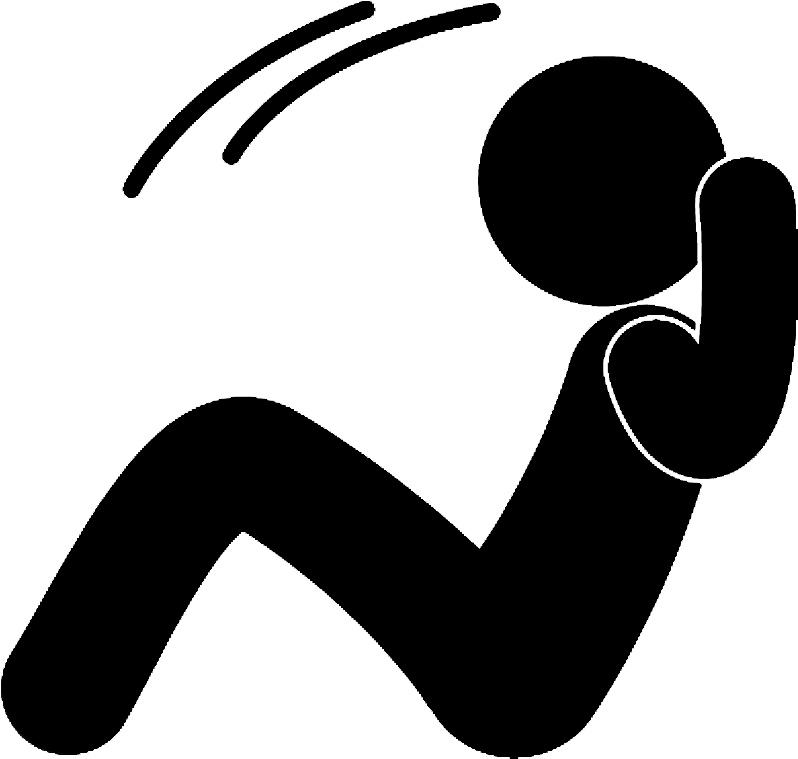
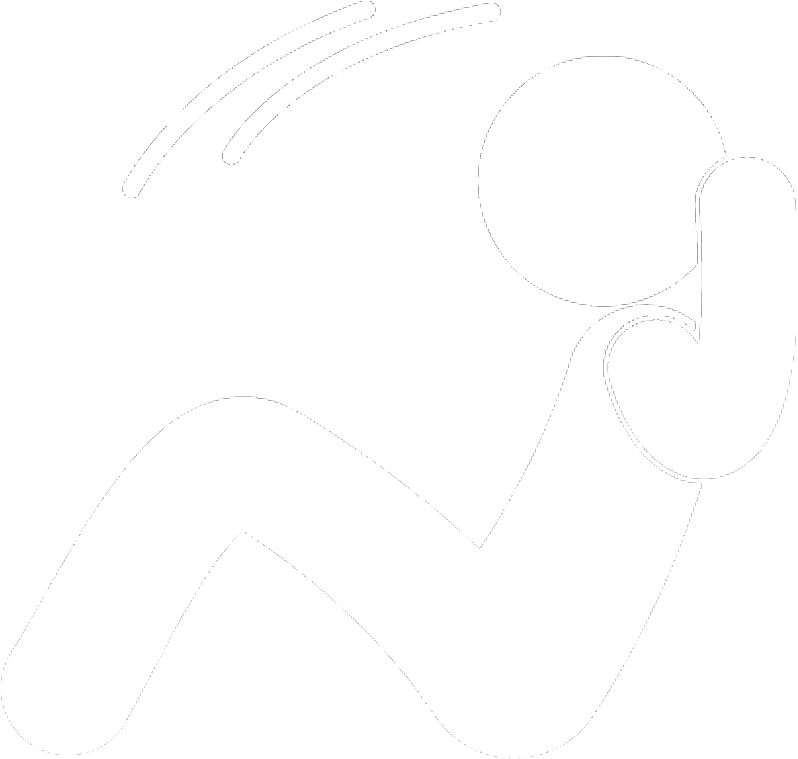
Working on the Screen Switch 2

diff --git a/lib/Screens/Home.dart b/lib/Screens/Home.dart
@@ -1,4 +1,5 @@
 import 'package:flutter/material.dart';
+import 'package:levelup_fitness/Screens/Workout.dart';
 import 'package:levelup_fitness/Styles/Stylebook.dart';
 
 class StatBox extends StatelessWidget {
@@ -37,12 +38,19 @@ class StatBox extends StatelessWidget {
   }
 }
 
-class HomeScreen extends StatelessWidget {
-  const HomeScreen({Key? key}) : super(key: key);
-  final int strength = 10;
-  final int agility = 20;
-  final int endurance = 30;
-  final int streak = 0;
+class HomeScreen extends StatefulWidget {
+  @override
+  MainScreenState createState() => MainScreenState();
+}
+
+class MainScreenState extends State<HomeScreen> {
+  int strength = 10;
+  int agility = 20;
+  int endurance = 30;
+  int streak = 0;
+  int selectedIndex = 0;
+
+
   @override
   Widget build(BuildContext context) {
     return Scaffold(
@@ -91,6 +99,7 @@ class HomeScreen extends StatelessWidget {
         child: Column(
           crossAxisAlignment: CrossAxisAlignment.start,
           children: [
+            
             //Colomn start
             Text("STATS", style: Stylebook.bodyText1),
             Padding(padding: const EdgeInsets.fromLTRB(0, 12, 0, 0)),
@@ -146,17 +155,32 @@ class HomeScreen extends StatelessWidget {
         ),
       ),
       bottomNavigationBar: BottomNavigationBar(
+        currentIndex: selectedIndex,
+        onTap: (index) {
+          setState(() {
+            selectedIndex = index;
+          });
+        },
         elevation: 0,
         showSelectedLabels: false,
         showUnselectedLabels: false,
+
         backgroundColor: const Color.fromARGB(0, 255, 255, 255),
         items: [
           BottomNavigationBarItem(
-            icon: Image.asset('assets/Images/HomeIconW.png', width: 35, height: 35),
+            icon: Image.asset(
+              'assets/Images/HomeIconW.png',
+              width: 35,
+              height: 35,
+            ),
             label: 'Home',
           ),
           BottomNavigationBarItem(
-            icon: Image.asset('assets/Images/HomeIconB.png', width: 24, height: 24),
+            icon: Image.asset(
+              'assets/Images/SitUpIconB.png',
+              width: 29,
+              height: 29,
+            ),
             label: 'Grind',
           ),
         ],

diff --git a/lib/Screens/Workout.dart b/lib/Screens/Workout.dart
@@ -1,0 +1,23 @@
+import 'package:flutter/material.dart';
+import 'package:levelup_fitness/Styles/Stylebook.dart';
+
+class WorkoutPage extends StatelessWidget {
+  
+  @override
+  Widget build(BuildContext context) {
+    return Scaffold(
+      appBar: AppBar(
+        title: Text('Workout Page', style: Stylebook.heading1),
+        backgroundColor: ColourBook.appBarColor,
+      ),
+      body: Center(
+        child: Text(
+          'Welcome to the Workout Page',
+          style: Stylebook.bodyText1,
+        ),
+      ),
+      backgroundColor: ColourBook.backgroundColor,
+      
+    );
+  }
+}
